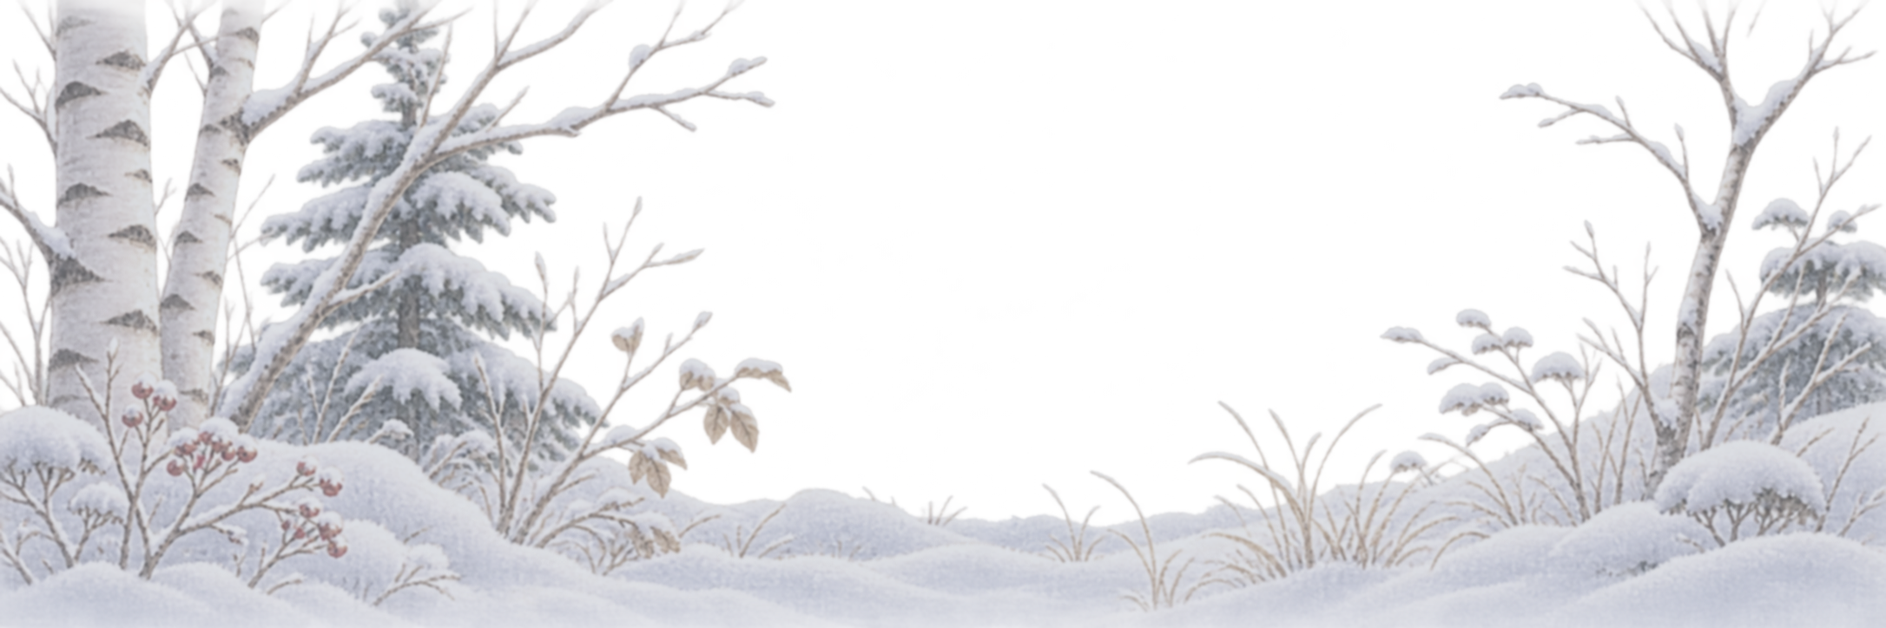
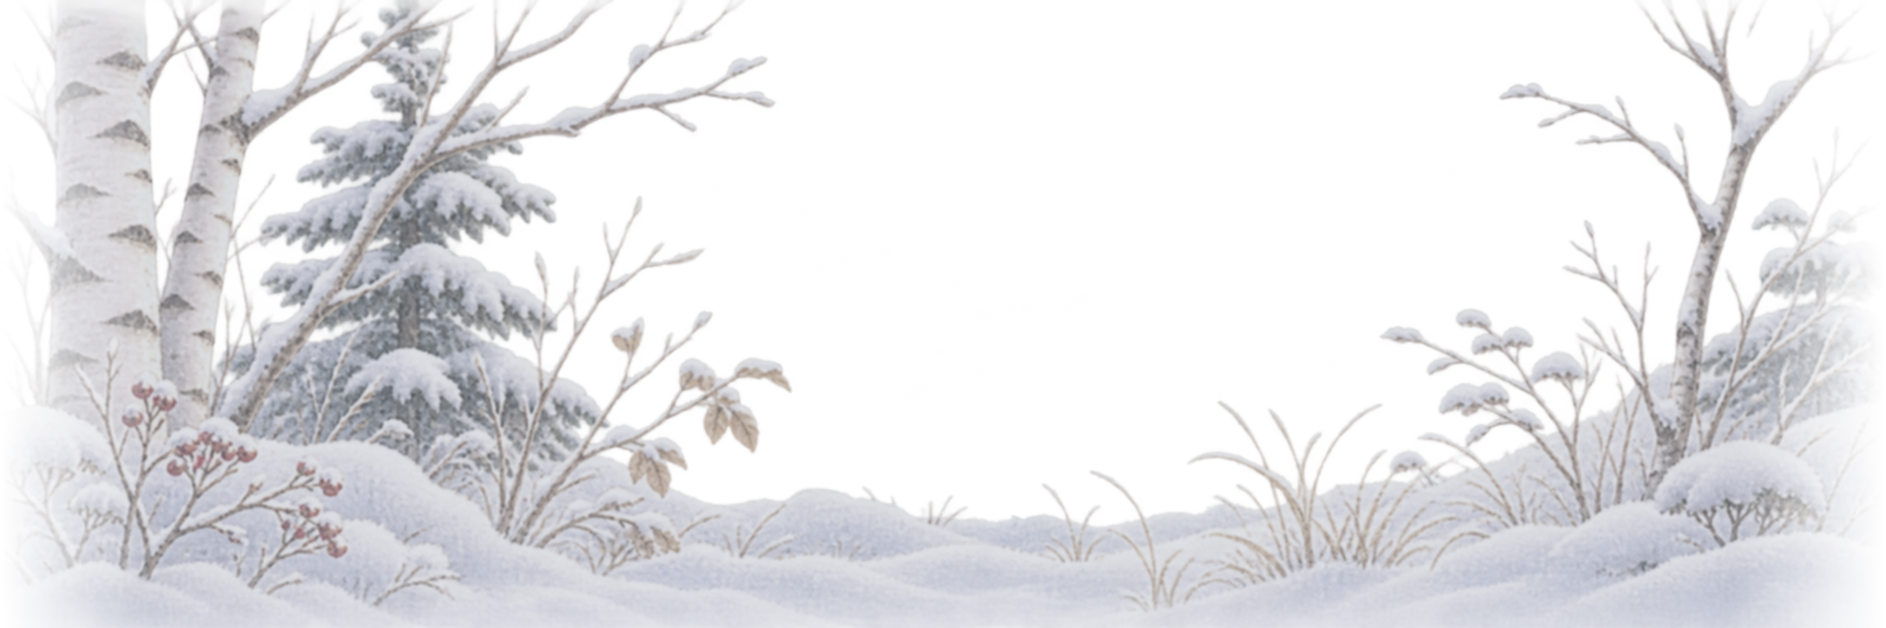
見本（マージしない）：コールドムーン 第3次 段階2 仕上げ — 枝の上部に樹皮（c05e-limb）、手前の雪・中景の端を雪へぼかす（near-c3・middle-c2）、雪原を起伏と連続した陰影に、6P の光を雪の稜の反射に、控えめな星（?coldStars=0 で無し）、3P 接写案（?coldP3=B、字は左上）、9P の折り目を意味のまとまりに
Claude-Session: https://claude.ai/code/session_01RjnFdougtt3G8DceQLuFWS

diff --git a/src/design/story/ColdWorld.tsx b/src/design/story/ColdWorld.tsx
@@ -107,6 +107,30 @@ const TRUNK_D = [
   `M${LIMB.l - 11} ${LIMB.y + 20} L${LIMB.l - 7 - 72} -300 L${LIMB.l + 7 - 72} -300 L${LIMB.l + 11} ${LIMB.y + 20} Z`,
   `M${LIMB.r - 13} ${LIMB.y + 20} L${LIMB.r - 8 + 33} -300 L${LIMB.r + 8 + 33} -300 L${LIMB.r + 13} ${LIMB.y + 20} Z`,
 ].join(" ");
+/** 第3次 段階2：上へのびる二本の枝（TRUNK_D の2本目・3本目）に貼る樹皮の絵の置き方（根元の中心・傾き・幅・長さ）と切り抜き。 */
+const LIMBS = [
+  { b: [LIMB.l, LIMB.y + 40], t: [LIMB.l - 72, -300], clip: `M${LIMB.l - 11} ${LIMB.y + 20} L${LIMB.l - 7 - 72} -300 L${LIMB.l + 7 - 72} -300 L${LIMB.l + 11} ${LIMB.y + 20} Z` },
+  { b: [LIMB.r, LIMB.y + 40], t: [LIMB.r + 33, -300], clip: `M${LIMB.r - 13} ${LIMB.y + 20} L${LIMB.r - 8 + 33} -300 L${LIMB.r + 8 + 33} -300 L${LIMB.r + 13} ${LIMB.y + 20} Z` },
+].map(({ b, t, clip }) => {
+  const dx = t[0] - b[0], dy = t[1] - b[1];
+  const len = Math.hypot(dx, dy);
+  const w = 34;
+  return { bx: b[0], by: b[1], deg: (Math.atan2(dx, -dy) * 180) / Math.PI, w, h: Math.max(len + 30, (w * 4088) / 346), clip };
+});
+/** 第3次 段階2：控えめな星（明るい星 b は少し）。月の通り道（6P の昇る所・7P の高い所）のまわりは空ける。 */
+const STARS3 = (() => {
+  const r = rand(313);
+  const away = (x: number, y: number) =>
+    Math.hypot(x - 110, y - 420) > 150 && Math.hypot(x - 128, y - 230) > 130 && Math.hypot(x - 194, y + 26) > 130;
+  const out: { x: number; y: number; r: number; o: number; b: boolean }[] = [];
+  while (out.length < 34) {
+    const x = -360 + r() * 1120, y = -440 + r() * 900;
+    if (!away(x, y)) continue;
+    const b = out.length < 7;
+    out.push({ x: Math.round(x), y: Math.round(y), r: b ? 1.1 + r() * 0.5 : 0.45 + r() * 0.5, o: b ? 0.9 : 0.45 + r() * 0.35, b });
+  }
+  return out;
+})();
 /** 木の穴（キツツキの古い穴）。描き込んだ幹（c05）の穴の口に合わせる。 */
 const HOLE = { x: BIRCH.x + 2, y: 548, rx: 13, ry: 14 };
 /** 第3次：穴の縁の霜（角度・縁からの距離・半径・月の側か）。上の縁に寄せ、間隔も大きさもそろえない。 */
@@ -223,6 +247,14 @@ function MainBirch(): ReactElement {
           </g>
         );
       })}
+      {/* 第3次 段階2（11/26 21:41「枝の上部が直線的で、樹皮の質感が突然なくなる」）：上へのびる二本の枝にも描き込んだ樹皮を
+          （c05b の幹を縦につないだ絵を、枝の向きに傾けて、枝の形で切る）。二股の絵の上の端は、この樹皮へぼけてつながる。 */}
+      {COLD_OPT.art3 &&
+        LIMBS.map((l, i) => (
+          <g key={i} clipPath={`url(#cw-limb-clip${i})`}>
+            <image href={A("limb")} x={-l.w / 2} y={-l.h} width={l.w} height={l.h} transform={`translate(${l.bx.toFixed(2)} ${l.by.toFixed(2)}) rotate(${l.deg.toFixed(2)})`} preserveAspectRatio="none" />
+          </g>
+        ))}
       {/* 雪の枝（切り口は幹の絵の後ろ） */}
       <image className="cw-sway" href={A("bough")} x={BOUGH.x} y={BOUGH.y} width={BOUGH.w} height={BOUGH.h} />
       {/* 描き込んだ幹：穴のない幹（夜明けは光を受けた幹に入れ替える）、二股、穴のあたり */}
@@ -235,8 +267,44 @@ function MainBirch(): ReactElement {
   );
 }
 
+/** 第3次 段階2（11/26 21:41「雪原の水平な色の帯を、緩やかな起伏と連続した陰影へ」）：雪原の起伏の稜（上の縁）。
+ * 帯を全幅の水平線にしない（高さと長さを変え、端は下がって地面に溶ける）。面は上が明るく、下へ透けて下地の連続した陰影へ。 */
+const DRIFTS_BACK = [
+  "M-300 676 C -220 668 -150 666 -70 672 C 0 677 50 669 120 666 C 180 663 230 670 270 676 C 330 684 380 674 450 670 C 540 665 620 672 700 668",
+  "M-300 724 C -230 716 -170 712 -110 717 C -50 722 -10 728 40 724 C 90 720 120 712 160 712",
+  "M250 728 C 300 718 350 713 410 716 C 480 720 520 726 580 722 C 630 719 670 716 700 717",
+];
+const DRIFTS_FRONT = [
+  "M-300 770 C -220 760 -140 756 -60 762 C 0 767 60 772 130 766 C 200 760 250 752 330 756 C 420 761 520 770 700 762",
+  "M-300 828 C -200 818 -100 816 0 822 C 100 828 180 820 260 816 C 360 811 480 818 700 812",
+];
+const driftFill = (d: string, depth: number) => `${d} L 700 ${depth} L -300 ${depth} Z`;
+
+function SnowField3({ front }: { front?: boolean }): ReactElement {
+  if (front)
+    return (
+      <g>
+        {DRIFTS_FRONT.map((d, i) => (
+          <path key={i} d={driftFill(d, 1300)} fill="url(#cw-drift-g)" />
+        ))}
+        {/* いちばん手前の雪と枯れ草（下の端と左右の端を雪へぼかした版。引いた構図でも切り口を見せない）。倒木の下に薄い接触影。 */}
+        <ellipse cx={NEAR.x + NEAR.w * 0.72} cy={NEAR.y + NEAR.h * 0.86} rx={NEAR.w * 0.2} ry={7} fill="url(#cw-contact-g)" opacity={0.6} />
+        <image href={A("near-c3")} x={NEAR.x} y={NEAR.y} width={NEAR.w} height={NEAR.h} />
+      </g>
+    );
+  return (
+    <g>
+      <path d="M-300 640 C -100 628 60 642 200 636 C 340 630 480 640 700 632 L 700 1300 L -300 1300 Z" fill="url(#cw-snowbase-g)" />
+      {DRIFTS_BACK.map((d, i) => (
+        <path key={i} d={driftFill(d, i === 0 ? 760 : 800)} fill="url(#cw-drift-g)" />
+      ))}
+    </g>
+  );
+}
+
 /** 雪原と手前の雪の盛り上がり、枯れ草（平たい面）。 */
 function SnowField({ front }: { front?: boolean }): ReactElement {
+  if (COLD_OPT.art3) return <SnowField3 front={front} />;
   if (front)
     return (
       <g>
@@ -489,6 +557,43 @@ export function ColdWorld(): ReactElement {
         <filter id="cw-black" colorInterpolationFilters="sRGB">
           <feColorMatrix type="matrix" values="0 0 0 0 0  0 0 0 0 0  0 0 0 0 0  0 0 0 1 0" />
         </filter>
+        {LIMBS.map((l, i) => (
+          <clipPath key={i} id={`cw-limb-clip${i}`}>
+            <path d={l.clip} />
+          </clipPath>
+        ))}
+        {/* 雪原の下地：地平線から手前へ、連続した明るさの変化（色の帯にしない）。起伏の面：上の稜が明るく、下へ透ける。 */}
+        <linearGradient id="cw-snowbase-g" gradientUnits="userSpaceOnUse" x1={0} y1={630} x2={0} y2={900}>
+          <stop offset="0" stopColor={C.snow[2]} />
+          <stop offset="0.2" stopColor="#d8e0ef" />
+          <stop offset="0.5" stopColor="#e9eef7" />
+          <stop offset="1" stopColor={C.snow[0]} />
+        </linearGradient>
+        <linearGradient id="cw-drift-g" x1="0" y1="0" x2="0" y2="1">
+          <stop offset="0" stopColor="#f6f8fc" stopOpacity={0.95} />
+          <stop offset="0.12" stopColor="#eef2f8" stopOpacity={0.75} />
+          <stop offset="0.45" stopColor="#e4eaf4" stopOpacity={0.3} />
+          <stop offset="1" stopColor="#e4eaf4" stopOpacity={0} />
+        </linearGradient>
+        {/* 起伏の稜の月明かり：稜のすぐ下がいちばん明るく、面の下へ消える（線にしない）。手前の起伏は面が大きいので早く消す。 */}
+        <linearGradient id="cw-crestlit-g" x1="0" y1="0" x2="0" y2="1">
+          <stop offset="0" stopColor="#e3ebff" stopOpacity={0.65} />
+          <stop offset="0.1" stopColor="#d6e1fb" stopOpacity={0.3} />
+          <stop offset="0.3" stopColor="#d6e1fb" stopOpacity={0} />
+        </linearGradient>
+        <linearGradient id="cw-crestlit-g2" x1="0" y1="0" x2="0" y2="1">
+          <stop offset="0" stopColor="#e3ebff" stopOpacity={0.6} />
+          <stop offset="0.04" stopColor="#d6e1fb" stopOpacity={0.25} />
+          <stop offset="0.12" stopColor="#d6e1fb" stopOpacity={0} />
+        </linearGradient>
+        <linearGradient id="cw-crest-x" gradientUnits="userSpaceOnUse" x1={-200} y1={0} x2={500} y2={0}>
+          <stop offset="0" stopColor="#ffffff" />
+          <stop offset="0.6" stopColor="#808080" />
+          <stop offset="1" stopColor="#1a1a1a" />
+        </linearGradient>
+        <mask id="cw-crest-mask" maskUnits="userSpaceOnUse" x={-700} y={-400} width={1800} height={2000}>
+          <rect x={-700} y={600} width={1800} height={700} fill="url(#cw-crest-x)" />
+        </mask>
         <clipPath id="cw-ridge-clip">
           <path d={RIDGE_D} />
         </clipPath>
@@ -614,6 +719,22 @@ export function ColdWorld(): ReactElement {
             <rect className="cw-dawnglow" x={-700} y={360} width={1800} height={220} fill="url(#cw-dawnglow-g)" opacity={0} />
           </>
         )}
+        {/* 第3次 段階2（11/26 21:41「星は描く。ただし非常に控えめに」）：満月の夜なので少数だけ。空に固定（降る雪とは別の層、動かない）。
+            明るい星（4P の夕暮れから）と、暗い星（5P から）。月の通り道のまわりには置かない。 */}
+        {COLD_OPT.art3 && COLD_OPT.stars && (
+          <>
+            <g className="cw-stars3-b" opacity={0}>
+              {STARS3.filter((x) => x.b).map((x, i) => (
+                <circle key={i} cx={x.x} cy={x.y} r={x.r} fill="#f4f6ff" opacity={x.o} />
+              ))}
+            </g>
+            <g className="cw-stars3-d" opacity={0}>
+              {STARS3.filter((x) => !x.b).map((x, i) => (
+                <circle key={i} cx={x.x} cy={x.y} r={x.r} fill="#e8edff" opacity={x.o} />
+              ))}
+            </g>
+          </>
+        )}
         <g className="cw-stars" opacity={0}>
           {stars}
         </g>
@@ -649,8 +770,8 @@ export function ColdWorld(): ReactElement {
         {COLD_OPT.art3 && (
           <g>
             {/* 3回目（11/26 20:19「低く、左右非対称に、周囲の雪原へ溶け込ませる」）：左は短く、右（陰の側）へ長くなだらかに。縁は薄い雪を一枚外に重ねてぼかす。 */}
-            <path d={`M${BIRCH.x - 52} 703 C ${BIRCH.x - 40} 700 ${BIRCH.x - 30} 692 ${BIRCH.x - 18} 690 C ${BIRCH.x - 8} 688 ${BIRCH.x + 4} 687 ${BIRCH.x + 14} 689 C ${BIRCH.x + 26} 691 ${BIRCH.x + 34} 695 ${BIRCH.x + 52} 698 C ${BIRCH.x + 72} 701 ${BIRCH.x + 96} 702 ${BIRCH.x + 120} 704 L ${BIRCH.x - 52} 706 Z`} fill={C.snow[0]} opacity={0.55} transform="translate(0 -1.6)" />
-            <path d={`M${BIRCH.x - 44} 704 C ${BIRCH.x - 34} 701 ${BIRCH.x - 27} 694 ${BIRCH.x - 17} 691.5 C ${BIRCH.x - 6} 689 ${BIRCH.x + 3} 688.5 ${BIRCH.x + 13} 690.5 C ${BIRCH.x + 22} 692 ${BIRCH.x + 31} 695.5 ${BIRCH.x + 46} 698.5 C ${BIRCH.x + 66} 701.5 ${BIRCH.x + 88} 702.5 ${BIRCH.x + 112} 705 L ${BIRCH.x - 44} 706 Z`} fill={C.snow[0]} />
+            <path d={`M${BIRCH.x - 52} 703 C ${BIRCH.x - 40} 700 ${BIRCH.x - 30} 692 ${BIRCH.x - 18} 690 C ${BIRCH.x - 8} 688 ${BIRCH.x + 4} 687 ${BIRCH.x + 14} 689 C ${BIRCH.x + 26} 691 ${BIRCH.x + 34} 695 ${BIRCH.x + 52} 698 C ${BIRCH.x + 72} 701 ${BIRCH.x + 96} 702 ${BIRCH.x + 120} 704 L ${BIRCH.x - 52} 712 Z`} fill="url(#cw-drift-g)" opacity={0.7} transform="translate(0 -1.6)" />
+            <path d={`M${BIRCH.x - 44} 704 C ${BIRCH.x - 34} 701 ${BIRCH.x - 27} 694 ${BIRCH.x - 17} 691.5 C ${BIRCH.x - 6} 689 ${BIRCH.x + 3} 688.5 ${BIRCH.x + 13} 690.5 C ${BIRCH.x + 22} 692 ${BIRCH.x + 31} 695.5 ${BIRCH.x + 46} 698.5 C ${BIRCH.x + 66} 701.5 ${BIRCH.x + 88} 702.5 ${BIRCH.x + 112} 705 L ${BIRCH.x - 44} 712 Z`} fill="url(#cw-drift-g)" />
             <path d={`M${BIRCH.x + 16} 691 C ${BIRCH.x + 24} 693 ${BIRCH.x + 30} 695.5 ${BIRCH.x + 38} 697`} stroke={C.shadow} strokeWidth={1.2} strokeLinecap="round" fill="none" opacity={0.4} />
           </g>
         )}
@@ -701,6 +822,13 @@ export function ColdWorld(): ReactElement {
             <ellipse cx={CLING.x + CLING.w * 0.62} cy={CLING.y + CLING.h * 0.5} rx={CLING.w * 0.26} ry={CLING.h * 0.16} fill="url(#cw-warm-g)" mask="url(#cw-cling-shape)" opacity={0.5} style={{ mixBlendMode: "soft-light" }} />
           )}
         </g>
+        {/* 第3次 段階2（3P 接写案）：種をしまう樹皮の小さなすきま（大きな木の穴ではないことが絵で分かるように、細い裂け目）。 */}
+        {COLD_OPT.art3 && (
+          <g className="cw-crack" opacity={0}>
+            <path d={`M${SEED.at[0] + 2} ${SEED.at[1] - 2.4} C ${SEED.at[0] + 5} ${SEED.at[1] - 1} ${SEED.at[0] + 7} ${SEED.at[1] + 1.2} ${SEED.at[0] + 9} ${SEED.at[1] + 3}`} stroke="#3a2a1f" strokeWidth={1.1} strokeLinecap="round" fill="none" opacity={0.85} />
+            <path d={`M${SEED.at[0] + 2.6} ${SEED.at[1] - 1.6} C ${SEED.at[0] + 5.4} ${SEED.at[1] - 0.2} ${SEED.at[0] + 7.2} ${SEED.at[1] + 1.8} ${SEED.at[0] + 9} ${SEED.at[1] + 3.6}`} stroke="#f6eee4" strokeWidth={0.5} strokeLinecap="round" fill="none" opacity={0.8} />
+          </g>
+        )}
         {/* 「ひとつぶ、またひとつぶ。」：くちばしの所から、種が一つずつ幹のすきまへ消える（2粒だけ）。 */}
         {[1, 2].map((k) => (
           <image key={k} className={`cw-seed${k}`} href={A("seed")} x={SEED.x} y={SEED.y} width={SEED.w} height={SEED.h} opacity={0} />
@@ -720,7 +848,16 @@ export function ColdWorld(): ReactElement {
           <rect className="cw-shade-night" x={-700} y={-400} width={1800} height={2000} fill="#071131" opacity={0} />
         </g>
         {/* 雪の上の月明かり（6〜8ページ。夜明けで消える）。紺に沈めた地上の上に重ねる。 */}
-        <g className="cw-moonlit" opacity={0}>
+        {/* 第3次 段階2（11/26 21:41「スポットライト状ではなく、雪面の起伏による反射」）：雪の起伏の稜が月の側（左）ほど光る。
+            雪面の月明かり（.cw-snowlit）と同じ時に。 */}
+        {COLD_OPT.art3 && (
+          <g className="cw-snowlit" opacity={0} mask="url(#cw-crest-mask)" style={{ mixBlendMode: "screen" }}>
+            {[...DRIFTS_BACK, ...DRIFTS_FRONT].map((d, i) => (
+              <path key={i} d={driftFill(d, i < 3 ? (i === 0 ? 760 : 800) : 1300)} fill={i < 3 ? "url(#cw-crestlit-g)" : "url(#cw-crestlit-g2)"} />
+            ))}
+          </g>
+        )}
+        <g className="cw-moonlit" opacity={0} style={COLD_OPT.art3 ? { display: "none" } : undefined}>
           <ellipse cx={130} cy={716} rx={300} ry={44} fill="url(#cw-moonlit-g)" opacity={0.5} />
           <ellipse cx={HOLE.x - 10} cy={HOLE.y + 10} rx={40} ry={70} fill="url(#cw-moonlit-g)" opacity={0.35} />
         </g>
@@ -913,15 +1050,28 @@ function buildBeats(tl: Tween, cueAt: Record<number, number[]>) {
   // 3 「ひとつぶ、」「またひとつぶ。」：幹につかまるコガラ。言葉に合わせて、種が一つずつ幹のすきまへ消える。
   const seeds = [cue(2, 0, 2.14), cue(2, 1, 2.3)];
   // 段階2：営みの細部。種をしまう幹のすきまとコガラのくちばしに寄る（コガラと幹を左の三分の二に、右は字の余白）。
-  move(2, CP ? cam(206, 608, 2.1) : COLD_OPT.view ? cam(BIRCH.x + 5, 610, 1.6) : cam(BIRCH.x + 5, 600, 1.4))
+  // 段階2 追加：3P の接写案（?coldP3=B）。くちばし・種・樹皮のすきまを中心に（字は左上）。すきまの細い裂け目を見せ、
+  // 2つ目の種は先が少し見えたまま、すきまに残す（しまったことが絵で分かる）。
+  const P3B = CP && COLD_OPT.p3 === "B";
+  if (A3) tl.to(".cw-crack", { opacity: 1, duration: 0.1 }, 2.02).to(".cw-crack", { opacity: 0, duration: 0.1 }, 3.0);
+  move(2, P3B ? cam(176, 590, 4.0) : CP ? cam(206, 608, 2.1) : COLD_OPT.view ? cam(BIRCH.x + 5, 610, 1.6) : cam(BIRCH.x + 5, 600, 1.4))
     .to(".cw-perch", { opacity: 0, duration: 0.04 }, 2.01)
     .to(".cw-seed", { opacity: 1, duration: 0.06 }, Math.max(2.02, seeds[0] - 0.08));
   seeds.forEach((t, k) =>
     tl
       .fromTo(`.cw-seed${k + 1}`, { opacity: 0, x: 0, scale: 1 }, { opacity: 1, duration: 0.02 }, t)
       .to(`.cw-seed${k + 1}`, { x: 5, scale: 0.55, svgOrigin: `${SEED.at[0]} ${SEED.at[1]}`, duration: 0.07, ease: "power1.in" }, t + 0.02)
-      .to(`.cw-seed${k + 1}`, { opacity: 0, duration: 0.03 }, t + 0.07),
+      .to(`.cw-seed${k + 1}`, { opacity: P3B && k === 1 ? 1 : 0, duration: 0.03 }, t + 0.07),
   );
+  if (P3B) tl.to(".cw-seed2", { opacity: 0, duration: 0.05 }, 3.0);
+  // 星（第3次 段階2）：4P 夕暮れに明るい星がわずか → 5P 少し増える → 6P 月から離れた空に控えめに → 7P 少なく → 8P ほとんど無し → 9P 朝に溶ける。
+  if (A3 && COLD_OPT.stars)
+    tl.to(".cw-stars3-b", { opacity: 0.55, duration: 0.5 }, 3.2)
+      .to(".cw-stars3-b", { opacity: 0.85, duration: 0.4 }, 4.05)
+      .to(".cw-stars3-d", { opacity: 0.4, duration: 0.4 }, 4.05)
+      .to(".cw-stars3-d", { opacity: 0.8, duration: 0.4 }, 5.05)
+      .to([".cw-stars3-b", ".cw-stars3-d"], { opacity: 0.45, duration: 0.4 }, 6.05)
+      .to([".cw-stars3-b", ".cw-stars3-d"], { opacity: 0.08, duration: 0.4 }, 7.05);
   // 4 はやい夕暮れ：引いて空を広く。空と雪が青いかげへ。「ひゅう、」で枝が揺れ、雪が流れる。
   const gust = cue(3, 0, 3.46);
   move(3, cam(200, 470, 1.0))
@@ -1044,6 +1194,7 @@ function buildBeats(tl: Tween, cueAt: Record<number, number[]>) {
       .to([".cw-bark-moon", ".cw-snowlit"], { opacity: 0, duration: dur(2.0) }, at(0.6))
       .to(".cw-birdshade", { opacity: 0, duration: dur(1.0) }, at(0.6))
       .to(".cw-birdlight2", { autoAlpha: 0, duration: dur(1.0) }, at(0.6))
+      .to([".cw-stars3-b", ".cw-stars3-d"], { opacity: 0, duration: dur(2.4) }, at(0.3))
       .to(".cw-snow", { opacity: 1, duration: dur(2.0) }, at(1.0))
       .to(".cw-moonlit", { opacity: 0, duration: dur(2.0) }, at(0.6))
       .to(".cw-frost", { opacity: 0.4, duration: dur(2.0) }, at(0.8))

diff --git a/src/ui/coldSample.ts b/src/ui/coldSample.ts
@@ -62,6 +62,9 @@ export function coldSample<T extends FullMoonNameInfo | null>(story: T): T {
   if (COLD_OPT.art3) document.documentElement.classList.add("cold-art3");
   // 第3次 段階2（11/26 20:19 承認）：構図。ページごとに視点の距離・主役・余白・視線の向きを変える（?coldComp=1）。文章・時間は同じ。
   COLD_OPT.comp = q.get("coldComp") === "1";
+  // 段階2 追加（11/26 21:41）：3P の接写案（?coldP3=B：くちばし・種・樹皮のすきま、字は左上）と、夜の星（?coldStars=0 で無し、既定は少数の星）。
+  COLD_OPT.p3 = q.get("coldP3") === "B" ? "B" : "A";
+  COLD_OPT.stars = q.get("coldStars") !== "0";
   // 7P の月の明暗だけを戻す強さ（?coldMoon7=0〜1、既定 0.4。0 は 2回目の版）。黄色の彩度は変えない。
   const m7 = Number(q.get("coldMoon7") ?? "0.4");
   COLD_OPT.moon7 = Number.isFinite(m7) ? Math.min(1, Math.max(0, m7)) : 0.4;
@@ -83,6 +86,9 @@ export function coldSample<T extends FullMoonNameInfo | null>(story: T): T {
     pages[1] = at(1, 2); // 小さなコガラ ／ 帽子と頬
     pages[2] = at(2, text === "W" ? 2 : 1); // W：一つ目 ／ もう一つ、R：反復 ／ 隠す
   }
+  // 第3次：9P の「西の空には、白い月が まだ のこっています。」は、列に収まらない画面で「す。」だけが次の列に残っていた
+  // （11/26 21:41）。言葉は変えず、意味のまとまりの折る所（"/"）を一つ足す：西の空には、／白い月が／まだ のこっています。
+  if (COLD_OPT.art3) pages[8] = pages[8].map((l) => (/^西の空には/.test(l) ? l.replace("白い月が まだ", "白い月が/まだ") : l));
   // 8P を一行ずつの節に（?cold8Split=1）。言葉は変えない。
   if (COLD_OPT.split8) pages[7] = [pages[7][0], "", pages[7][1], "", pages[7][2]];
   const sc = STORY_SCENES["コールドムーン"];
@@ -111,6 +117,8 @@ export function coldSample<T extends FullMoonNameInfo | null>(story: T): T {
     if (cap.includes("D")) caps[8] = { ...caps[8], drop: COLD_OPT.comp ? 12 : 8 };
     // 第3次：4P は地平線に残照を残す（明るくなる）ので、字の後ろだけを局所的に沈める（絵全体は暗くしない）。
     if (COLD_OPT.art3) caps[3] = { ...caps[3], backdrop: 1 };
+    // 3P の接写案：字は左上（コガラの頭の上の空き）。
+    if (COLD_OPT.comp && COLD_OPT.p3 === "B") caps[2] = { ...caps[2], area: "left" as const };
     sc.captions = caps;
   // ?coldSleep=1：9P の夜明けを、8P の文が消えて絵だけの時間のあとに（合図 108 ＝ 9P の「絵が先」の頭）。
   if (COLD_OPT.sleep) sc.pictureFirst = [8];

diff --git a/src/styles.css b/src/styles.css
@@ -5998,6 +5998,8 @@ html.cold-art3 .ms-caps[data-directed] .ms-cap[data-i="3"] .ms-ch[data-p] { text
 /* 昼・朝の濃い字（tone dark）の句読点も、字の面が小さいので、まわりの明るい縁取りを一段濃く。 */
 @media (prefers-reduced-motion: no-preference) { html.cold-art3 .ms-caps[data-directed] .ms-cap[data-tone="dark"] .ms-ch[data-p] { text-shadow: 0 0 var(--space-1) var(--bk-paper-0), 0 0 var(--space-2) color-mix(in srgb, var(--bk-paper-0) 85%, transparent), 0 0 var(--space-5) color-mix(in srgb, var(--bk-paper-0) 55%, transparent); } }
 html.cold-shadow .ms-caps[data-directed] .ms-cap:not([data-tone="dark"]) { text-shadow: 0 0 var(--space-1) color-mix(in srgb, var(--bk-night-1) 85%, transparent), 0 var(--space-1) var(--space-3) color-mix(in srgb, var(--bk-night-1) 55%, transparent); }
+/* 見本（段階2）：字を画面の左上に（絵の主役が右にあるページ）。字幕の箱は右寄せの 60% 幅なので、箱の外の左の余白まで出す。列は上の半分ほどに。 */
+@media (prefers-reduced-motion: no-preference) { .ms-caps[data-directed] .ms-cap[data-area="left"] { right: auto; left: calc(var(--space-7) - 66.667% + var(--space-9) + var(--space-3)); width: calc(var(--size-story) * 1.9 * 2 + var(--space-2)); height: 82%; } }
 @media (prefers-reduced-motion: no-preference) { .ms-caps[data-directed] .ms-cap[data-area="sky"] { right: calc(var(--space-5) * -1); line-height: 1.75; } }
 @media (prefers-reduced-motion: no-preference) and (max-width: 374px) { .ms-caps[data-directed] .ms-cap[data-area="sky"] { right: calc(var(--space-2) * -1); } }
 /* 節に分けたページ（CM-R03 見本）：節ごとに同じ起点（右上）から。表示中の字は動かさない。 */

diff --git a/src/design/story/storyAssets.ts b/src/design/story/storyAssets.ts
@@ -133,6 +133,10 @@ export const STORY_ASSETS: Record<string, Record<string, StoryAsset>> = {
     // 第3次 段階1（見本）：背景 C2 の中景。c08-middle の彩度・明暗差・鮮明さを抑えた版（遠くなるほど情報が減る）。
     // 第3次 段階1（見本）：7P の月の明暗だけを戻すための、月の濃淡（灰色、明暗を強めた版。かけ算で重ねる）。
     "moon-relief": { file: "design-src/story/cold/pack/moon-relief.png", width: 512 },
+    // 第3次 段階2（見本）：上へのびる二本の枝の樹皮（c05b の幹を縦に3つ、つなぎ目をぼかして重ねた）。
+    limb: { file: "design-src/story/cold/pack/c05e-limb.png", width: 240, quality: 0.8 },
+    // 第3次 段階2（見本）：いちばん手前の雪と枯れ草の、下の端と左右の端を雪へぼかした版（引いた構図で切り口を見せない）。
+    "near-c3": { file: "design-src/story/cold/pack/c08-near-c3.png", width: 1400, quality: 0.8 },
     "middle-c2": { file: "design-src/story/cold/pack/c08-middle-c2.png", width: 1400, quality: 0.8 },
     near: { file: "design-src/story/cold/pack/c08-near.png", width: 1400, quality: 0.8 },
     branch: { file: "design-src/story/cold/pack/c09-branch.png", width: 1000, quality: 0.8 },

diff --git a/src/design/story/coldDirection.ts b/src/design/story/coldDirection.ts
@@ -22,7 +22,7 @@ export const COLD_END = { v: "A" as "A" | "B" | "C" | "C2" };
 /** 見本の切り替え：view＝ページごとの視点（3P 近景、8P 遠景から近景へ）、dawn＝9P は朝の光を先に長く。 */
 /** 見本（?coldSleep=1）の 8P→9P の秒：8P の文が消える秒・8P の絵だけの秒・9P の絵が先の秒。 */
 export const SLEEP_TIMES = { fade8: 1.4, picture8: 5.2, intro9: 4.4 };
-export const COLD_OPT: { view: boolean; dawn: boolean; cu?: [number, number]; split8?: boolean; sleep?: boolean; p67?: boolean; art3?: boolean; comp?: boolean; moon7?: number; bg?: "A" | "B" | "C" | "C2" } = { view: false, dawn: false };
+export const COLD_OPT: { view: boolean; dawn: boolean; cu?: [number, number]; split8?: boolean; sleep?: boolean; p67?: boolean; art3?: boolean; comp?: boolean; p3?: "A" | "B"; stars?: boolean; moon7?: number; bg?: "A" | "B" | "C" | "C2" } = { view: false, dawn: false };
 
 function rule(page: number) {
   return (line: string, index: number): Omit<TextUnit, "text"> => {

diff --git a/src/design/story/scenes.ts b/src/design/story/scenes.ts
@@ -72,7 +72,7 @@ export type StoryScene = {
    *   backdrop 字の後ろだけを局所的に沈める強さ（0〜1。景色全体は暗くしない）。
    *   area     字幕の領域（"tall"＝列を長くして列の数を減らす、"sky"＝右の余白を詰め列の間を少し狭くして、幹の右の空に収める）。
    */
-  captions?: Record<number, { tone?: "dark"; backdrop?: number; area?: "tall" | "sky"; drop?: number }>;
+  captions?: Record<number, { tone?: "dark"; backdrop?: number; area?: "tall" | "sky" | "left"; drop?: number }>;
   /** 見本：動きを減らす設定で、そのページの文の前に置く止まった絵（物語の中心の絵だけ。11/26 15:31 レビュー）。 */
   stills?: Record<number, { src: string; alt: string }>;
   /**
